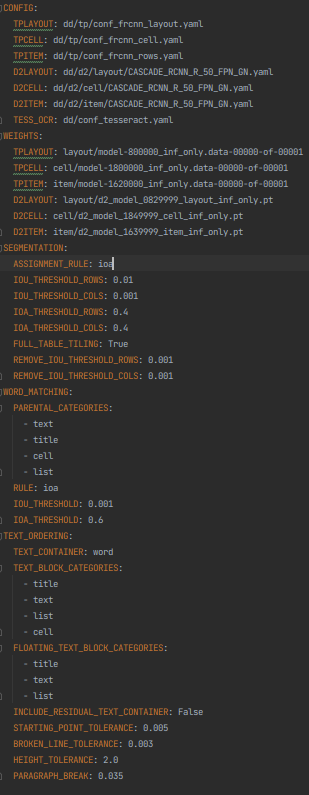
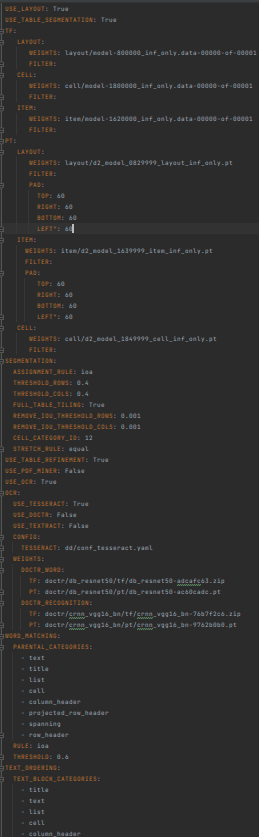
update docs [docs]

diff --git a/deepdoctection/analyzer/dd.py b/deepdoctection/analyzer/dd.py
@@ -173,7 +173,8 @@ def _build_sub_image_service(detector: ObjectDetector, cfg: AttrDict, mode: str)
 def _build_ocr(cfg: AttrDict) -> Union[TesseractOcrDetector, DoctrTextRecognizer, TextractOcrDetector]:
     if cfg.OCR.USE_TESSERACT:
         ocr_config_path = get_configs_dir_path() / cfg.OCR.CONFIG.TESSERACT
-        return TesseractOcrDetector(ocr_config_path)
+        return TesseractOcrDetector(ocr_config_path,config_overwrite=[f"LANGUAGES={cfg.LANGUAGE}"] if
+        cfg.LANGUAGE is not None else None)
     if cfg.OCR.USE_DOCTR:
         weights = cfg.OCR.WEIGHTS.DOCTR_RECOGNITION.TF if cfg.LIB == "TF" else cfg.OCR.WEIGHTS.DOCTR_RECOGNITION.PT
         weights_path = ModelDownloadManager.maybe_download_weights_and_configs(weights)
@@ -307,29 +308,24 @@ def get_dd_analyzer(reset_config_file: bool = True, config_overwrite: Optional[L
 
     The Standard Analyzer is a pipeline that comprises the following analysis components:
 
-    - Document analysis with object recognition and classification of:
+    - Document layout analysis
 
-        * title
-        * text
-        * list
-        * table
-        * figure
+    - Table segmentation
 
-    - Table recognition including line and column segmentation as well as detection of cells that run over several
-      rows or columns.
+    - Text extraction/OCR
 
-    - OCR using Tesseract as well as text assignment to the document assignment.
+    - Reading order
 
-    - Determination of the reading order for complex structured documents.
+    We refer to the various notebooks and docs for running an analyzer and changing the configs.
 
-    You can optionally switch off table recognition and ocr related components.
+    :param reset_config_file: This will copy the `.yaml` file with default variables to the `.cache` and therefore
+                              resetting all configurations if set to `True`.
+    :param config_overwrite: Passing a list of string arguments and values to overwrite the `.yaml` configuration with
+                             highest priority, e.g. ["USE_TABLE_SEGMENTATION=False",
+                                                     "USE_OCR=False",
+                                                     "TF.LAYOUT.WEIGHTS=my_fancy_pytorch_model"]
 
-    :param tables: Will do full table recognition. Default set to True
-    :param table_refinement: Will rearrange cells such that generating html is possible
-    :param ocr: Will do ocr, matching with layout and ordering words. Default set to True
-    :param language: Select a specific language. Pre-selecting layout will increase ocr precision.
-
-    :return: A DoctectionPipe instance with the given configs
+    :return: A DoctectionPipe instance with given configs
     """
     config_overwrite = [] if config_overwrite is None else config_overwrite
     lib, device = _auto_select_lib_and_device()
@@ -339,13 +335,15 @@ def get_dd_analyzer(reset_config_file: bool = True, config_overwrite: Optional[L
     # Set up of the configuration and logging
     cfg = set_config_by_yaml(dd_one_config_path)
 
-    if config_overwrite:
-        cfg.update_args(config_overwrite)
-
     cfg.freeze(freezed=False)
+    cfg.LANGUAGE = None
     cfg.LIB = lib
     cfg.DEVICE = device
     cfg.freeze()
+
+    if config_overwrite:
+        cfg.update_args(config_overwrite)
+
     _config_sanity_checks(cfg)
     logger.info("Config: \n %s", str(cfg), cfg.to_dict())
 

diff --git a/docs/tutorials/analyzer_configuration_notebook.md b/docs/tutorials/analyzer_configuration_notebook.md
@@ -1,0 +1,243 @@
+# Analyzer Configuration
+
+Document extraction from PDFs and scans is nothing that can be done in only one way. On the contrary, one needs 
+flexibility in the extraction process and this flexibility will be provided by an extensive customization of 
+**deep**doctection analyzer. 
+
+We will now discuss the most important configuration options. We will assume familiarity with the 
+[Get started tutorial](./get_started_notebook.md) as well as the [pipeline tutorial](./pipelines_notebook.md). 
+
+## How to change configuration
+
+Configuration can be done either directly in the `.yaml` file or by explicitly overwriting the default variables. 
+
+
+```python
+import deepdoctection as dd
+
+config_overwrite = ["USE_TABLE_SEGMENTATION=False","USE_OCR=False"]
+
+analyzer = dd.get_dd_analyzer(config_overwrite=config_overwrite)
+```
+
+## High level Configuration
+
+The analyzer consists of four steps: Layout detection, table recognition, text extraction and recombination. You can 
+switch each block on and off:
+
+```yaml
+USE_LAYOUT: True
+
+USE_TABLE_SEGMENTATION: True   # this will determine cells and rows/column of a detected table
+USE_TABLE_REFINEMENT: True     # this will guarantee that the table structure can be expressed in a valid html-format
+
+USE_PDF_MINER: False           # when processing a PDF file, it will first try to extract words using pdfplumber 
+USE_OCR: True                  # using one of the three available OCR tools to be specified later  
+```
+
+## Layout models
+
+Layout detection uses either Tensorpack's Cascade-RCNN or Detectron2 Cascade-RCNN by default, depending on which DL 
+framework PyTorch or Tensorflow has been installed. The model have been trained on Publaynet and therefore provide 
+detection of one of the following segments: `text, title, table, figure, list`. You can filter any of the segments, e.g.
+
+```yaml
+PT:
+   LAYOUT:
+      WEIGHTS: layout/d2_model_0829999_layout_inf_only.pt
+      FILTER:
+         - figure
+```
+
+### Table transformer
+
+You can use the [table transformer model](https://github.com/microsoft/table-transformer) for table detection. 
+
+
+```yaml
+PT:
+   LAYOUT:
+      WEIGHTS: microsoft/table-transformer-detection/pytorch_model.bin
+   PAD:
+      TOP: 60
+      RIGHT: 60
+      BOTTOM: 60
+      LEFT": 60
+
+```
+
+Table transformer requires image padding for more accurate results. The default padding provided might not be optimal. 
+You can tweak and change it according to your needs.
+
+
+### Custom model
+
+A custom model can be added as well, but it needs to be registered. The same holds true for some special categories. 
+We refer to [this tutorial](./running_pre_trained_models_from_third_party_libraries_notebook.md) for adding your own or 
+third party models.
+
+## Table segmentation
+
+Table segmentation, e.g. the determination of cells, rows and columns as well as multi-span cells can be done in two 
+different ways. 
+
+*The original **deep**doctection process*: With one cell detector and one row-column detector each, the basis for the 
+table structure is created. Then, by superimposing cells to rows and columns, the row and column number of the cell is 
+determined. This admittedly rather short description should not hide the fact that this derivation consists of many 
+intermediate steps. Row and column numbers must be stretched to completely overlay the table. If necessary, some 
+overlapping rows and columns must be removed. An overlay rule of cells to rows and columns must be set, etc. 
+
+*The Table Transformer process*: Here, rows and columns as well as multi-spanning cells are detected in only one 
+detector. In contrast to the process proposed in the original repo, cells are simply detected by overlapping rows and 
+columns. Then it is looked which of the simple cells can be replaced by multi-spanning cells. In a last step, the row 
+and column number of a cell is determined. 
+
+Table transformer is only available with PyTorch.
+
+The default configuration uses the **deep**doctection process.
+
+```yaml
+SEGMENTATION:
+  ASSIGNMENT_RULE: ioa  # iou is another cell/row/column overlapping rule
+  THRESHOLD_ROWS: 0.4
+  THRESHOLD_COLS: 0.4
+  FULL_TABLE_TILING: True # in order to guarantee that the table is completely covered with rows and columns, resp.
+  REMOVE_IOU_THRESHOLD_ROWS: 0.001
+  REMOVE_IOU_THRESHOLD_COLS: 0.001
+  STRETCH_RULE: equal  # how to stretch row/columns: left is another choice
+```
+
+As a rule of thumb for the configuration of the segmentation the following can be stated: The better the detectors work 
+for the use case, the higher the thresholds should be chosen to leverage the results.
+
+To perform table segmentation with Table transformer, the configuration must be set as follows:
+
+```yaml
+PT:
+   ITEM:
+     WEIGHTS: microsoft/table-transformer-structure-recognition/pytorch_model.bin
+     FILTER:
+        - table # model detects tables which are redundant and must be filtered
+```
+
+In our own experience, it has been shown that the recognition of multi spanning cells does not work reliably for tables 
+that do not originate from medical articles. If you can do without determining multi-spanning cells/headers, it is 
+recommended to filter them.
+
+```yaml
+PT:
+   ITEM:
+     WEIGHTS: microsoft/table-transformer-structure-recognition/pytorch_model.bin
+     FILTER:
+        - table # model detects tables which are redundant and must be filtered
+        - column_header
+        - projected_row_header
+        - spanning
+```
+
+## Text extraction
+
+There are four different options for text extraction.
+
+### PDFPlumber
+
+Extraction with pdfplumber. This requires native PDF documents where the text can be extracted from the byte encoding. 
+Scans and text from images are not included here. 
+
+```yaml
+USE_PDF_MINER: True
+```
+
+The remaining three are all OCR methods.
+
+It is possible to select PdfPlumber in combination with an OCR (exception: DocTr). If no text was extracted with 
+PdfPlumber, the OCR service will be called, otherwise it will be omitted. There is currently not option to grap 
+everything with OCR that cannot be extracted with PdfPlumber. It is all or nothing.  
+
+```yaml
+USE_PDF_MINER: True
+USE_OCR: True
+OCR:
+  USE_TESSERACT: True
+  USE_DOCTR: False
+  USE_TEXTRACT: False
+```
+
+### Tesseract
+
+Tesseract has its own configuration file `conf_tesseract.yaml`, which is also located in the `.cache`. Here you can 
+enter all parameters that are also valid via the Tesseract CLI. We refer to Tesseract's documentation. 
+
+### DocTr
+
+DocTr is a powerful OCR library with different models. Only one model is currently registered for PyTorch/Tensorflow, 
+but there are more pre-trained models that can also be used in this framework after registration. 
+
+DocTr uses a textline detector and a text recognizer whose models can both be loaded. These are both included in the 
+default configuration. 
+
+```yaml
+OCR:
+  WEIGHTS:
+    DOCTR_WORD:
+      TF: doctr/db_resnet50/tf/db_resnet50-adcafc63.zip
+      PT: doctr/db_resnet50/pt/db_resnet50-ac60cadc.pt
+    DOCTR_RECOGNITION:
+      TF: doctr/crnn_vgg16_bn/tf/crnn_vgg16_bn-76b7f2c6.zip
+      PT: doctr/crnn_vgg16_bn/pt/crnn_vgg16_bn-9762b0b0.pt
+```
+
+### AWS Textract
+
+Textract is the AWS OCR solution that can be accessed via an API. This is a paid service and requires an AWS account, 
+installation of the AWS CLI, and a token. We refer to the official documentation to access the service via API.
+
+## Word matching
+
+We have already discussed word matching in the pipeline notebook, we can cover the main topics quickly here.
+
+We determine which layout segments should be considered as candidates for matching words. A relation is then created 
+using an overlap rule. Layout segments that are not listed are not available as candidates for a relation.
+
+```yaml
+WORD_MATCHING:
+  PARENTAL_CATEGORIES:
+    - text
+    - title
+    - list
+    - cell  # Note, that there is no relationship between tables and words. The reason is, that we want to relate cells and words. 
+  RULE: ioa  # choose iou otherwise
+  THRESHOLD: 0.6
+```
+
+## Text ordering
+
+We have also dealt with reading order in more detail in the pipeline notebook.
+
+The layout sections that contain text and that need to be sorted need to be configured. If the section is listed in 
+`TEXT_BLOCK_CATEGORIES`, the assigned words are run through the sorting algorithm.
+
+The layout sections that are to be merged into continuous text across the entire page must also be configured. All sections listed in `FLOATING_TEXT_BLOCK_CATEGORIES` are taken into account.
+
+The reading order is determined heuristically. The following parameters can be changed, but we refer to the API 
+documentation for their meaning.
+
+```yaml
+TEXT_ORDERING:
+  INCLUDE_RESIDUAL_TEXT_CONTAINER: False
+  STARTING_POINT_TOLERANCE: 0.005
+  BROKEN_LINE_TOLERANCE: 0.003
+  HEIGHT_TOLERANCE: 2.0
+  PARAGRAPH_BREAK: 0.035
+```
+
+Words that have not been assigned to a layout segment are initially no longer displayed. To avoid losing words or 
+even phrases, set
+
+```yaml
+TEXT_ORDERING:
+  INCLUDE_RESIDUAL_TEXT_CONTAINER: True
+```
+
+When doing this, words will be grouped into lines of synthetic text and the lines are treated and arranged as layout 
+segments.

diff --git a/docs/tutorials/pipelines_notebook.md b/docs/tutorials/pipelines_notebook.md
@@ -46,7 +46,9 @@ Therefore in total, three object detectors and one OCR are loaded.
 
 We see while initializing a configuration in the logs of the analyzer. The configuration is saved in a `.yaml` file. You can find this file in the .cache dir of **deep**doctection.
 
-<!-- You can use the `.yaml` file to replace one model with e.g. a model trained on your own data. The tutorial **Customizing_pipelines.ipynb** will show you where you need to pay attention when changing the `.yaml` file. -->
+You can use the `.yaml` file to replace one model with e.g. a model trained on your own data. 
+The tutorial [**Analyzer configuration**](./analyzer_configuration_notebook.md) will show you where you need to pay 
+attention when changing the `.yaml` file.
 
 In [this tutorial](./running_pre_trained_models_from_third_party_libraries_notebook.md) we will show you how to add a model to the `ModelCatalog` and change the model in the `.yaml` file so that you can use model from third party libraries, that run layout detection models with Detectron2.
 
